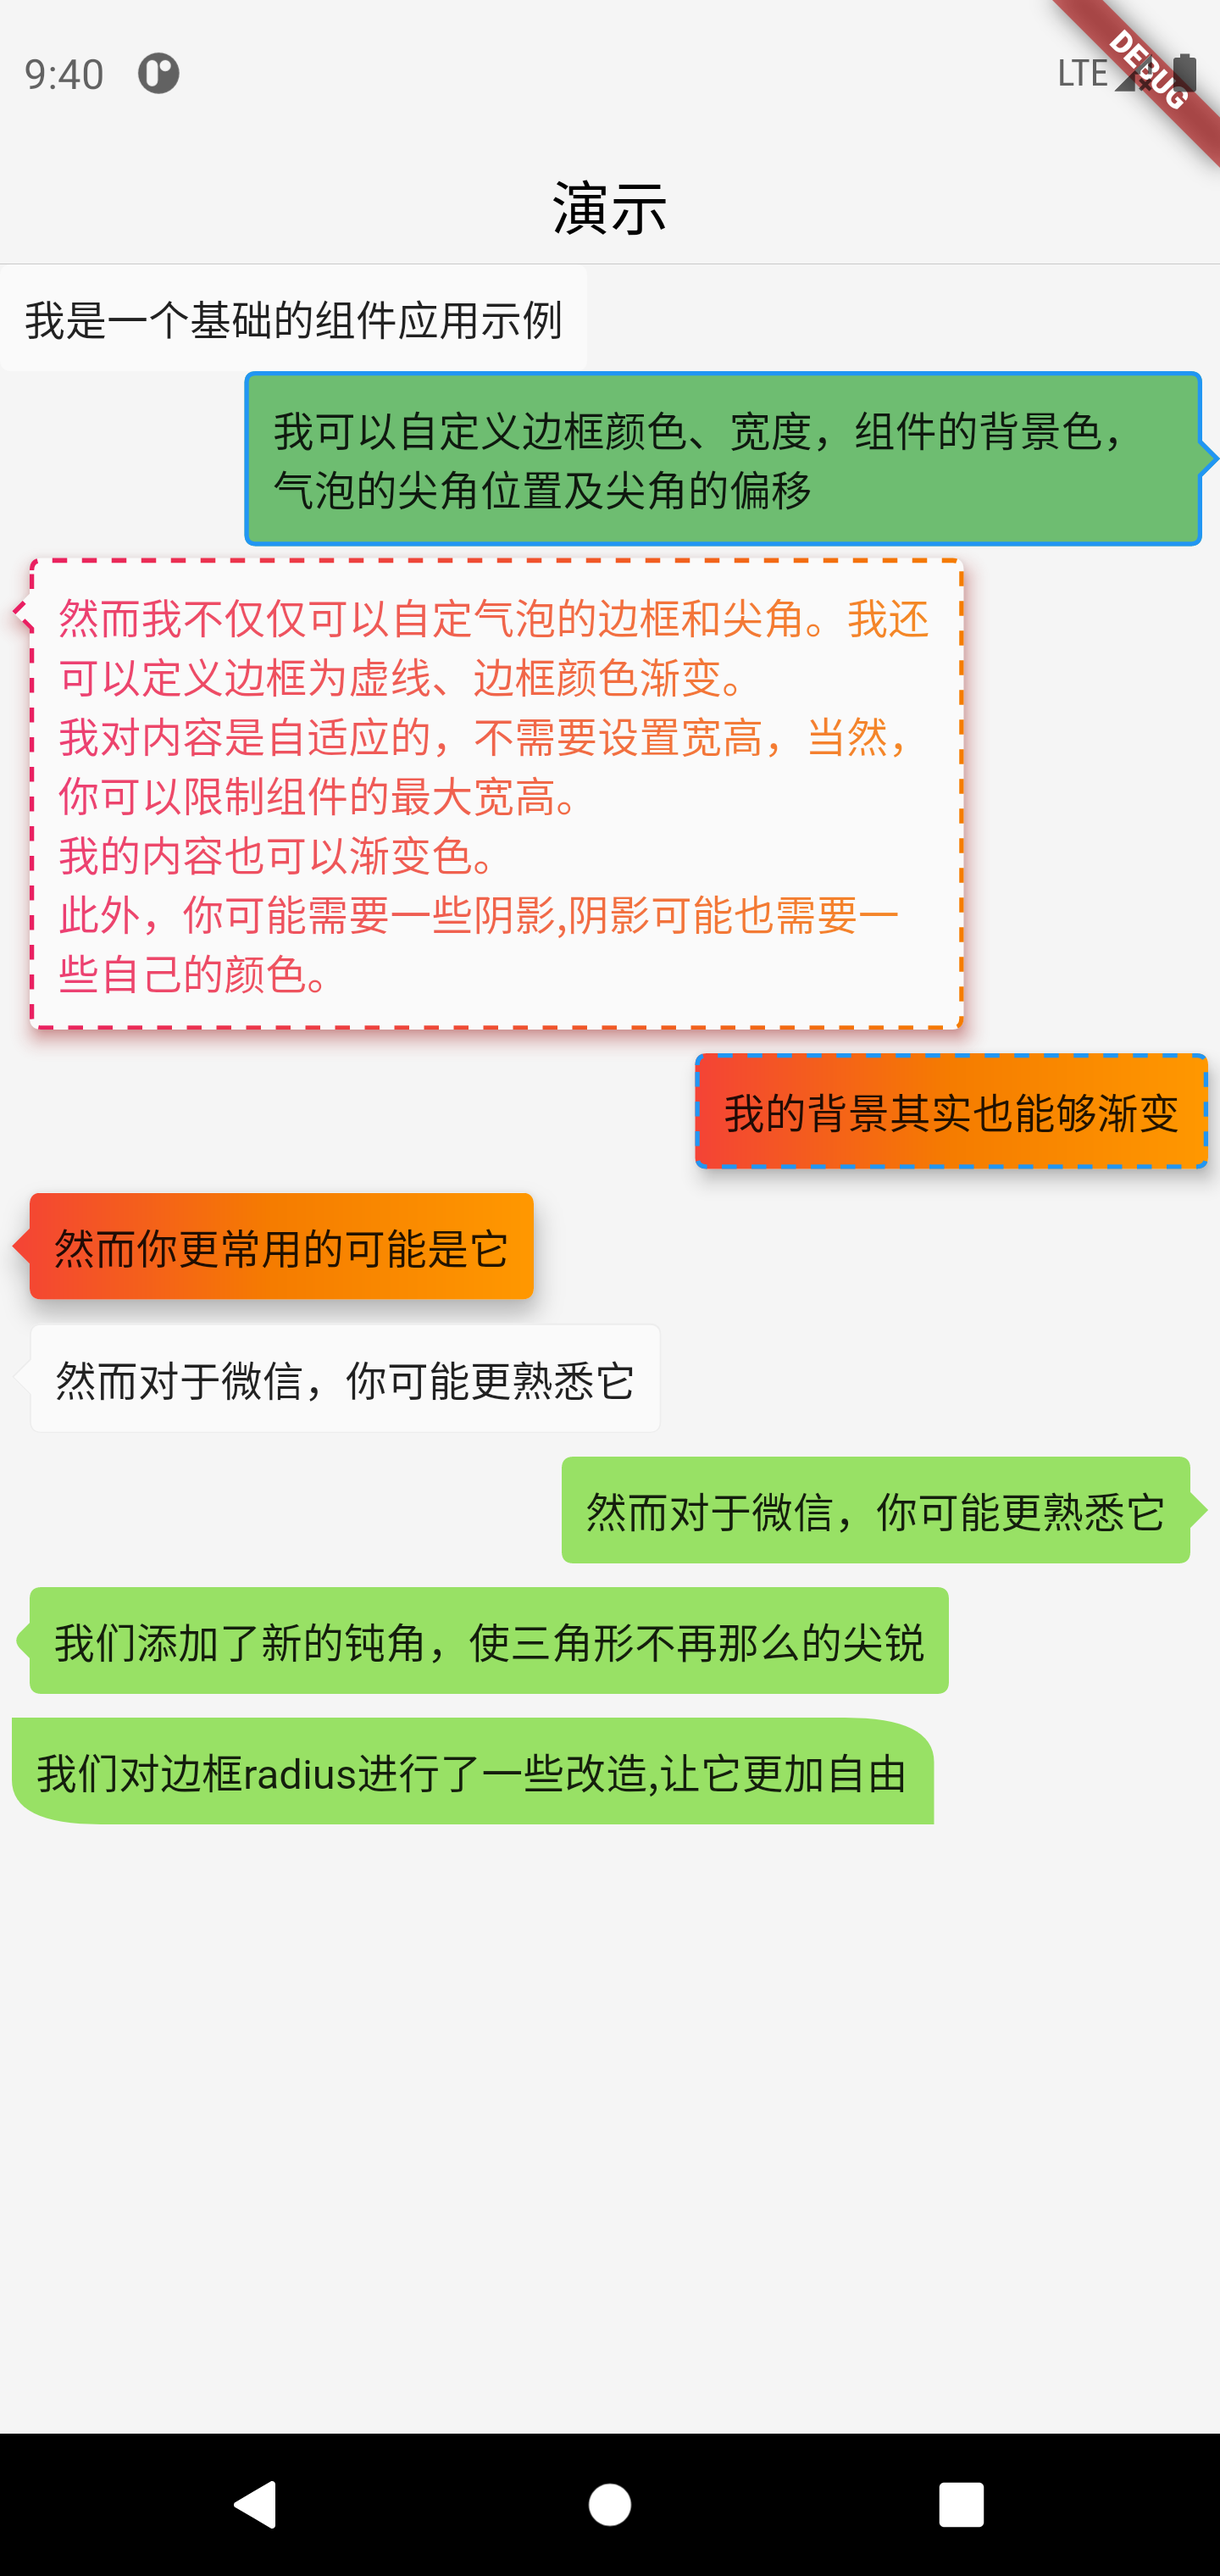
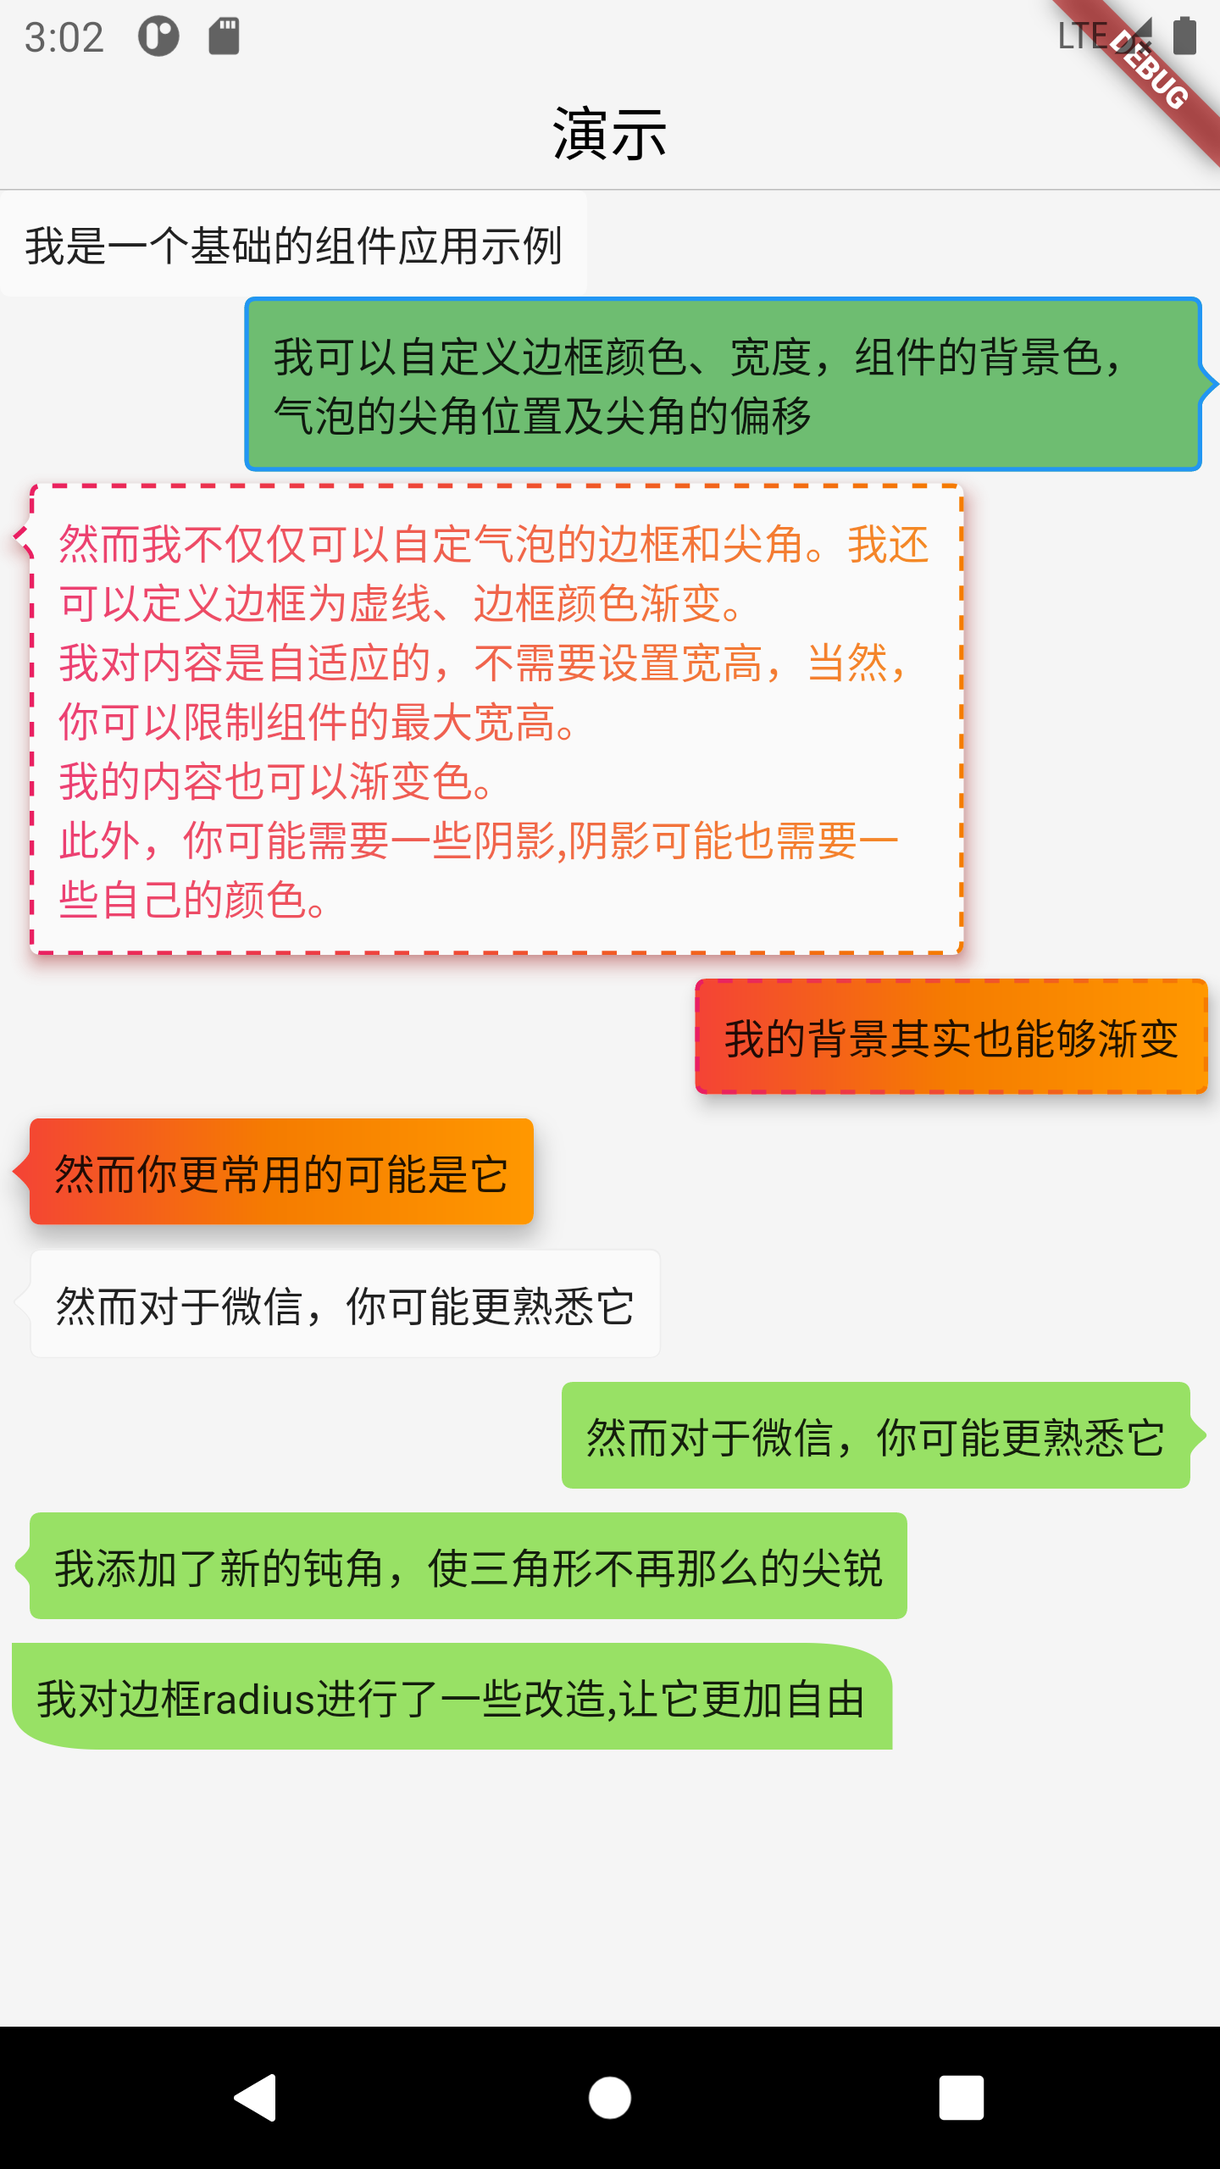
更新截图，格式化代码

diff --git a/lib/src/shape/bubble_shape_border.dart b/lib/src/shape/bubble_shape_border.dart
@@ -187,7 +187,10 @@ class BubbleShapeBorder extends ShapeBorder {
   @override
   Path getOuterPath(Rect rect, {TextDirection? textDirection}) {
     // 修正塞贝尔曲线高度
-    var arrowQuadraticBezierLength = this.arrowQuadraticBezierLength > arrowHeight ? arrowHeight : this.arrowQuadraticBezierLength;
+    var arrowQuadraticBezierLength =
+        this.arrowQuadraticBezierLength > arrowHeight
+            ? arrowHeight
+            : this.arrowQuadraticBezierLength;
 
     Size size = Size(rect.width, rect.height);
     var path = Path();
@@ -208,12 +211,16 @@ class BubbleShapeBorder extends ShapeBorder {
     /// 左上角半径
     path.moveTo(
       leftMargin,
-      topMargin + math.min(_min(position.start, radius.topLeft.y, BubbleDirection.left), size.height),
+      topMargin +
+          math.min(_min(position.start, radius.topLeft.y, BubbleDirection.left),
+              size.height),
     );
     path.quadraticBezierTo(
       leftMargin,
       topMargin,
-      leftMargin + math.min(_min(position.start, radius.topLeft.x, BubbleDirection.top), size.width),
+      leftMargin +
+          math.min(_min(position.start, radius.topLeft.x, BubbleDirection.top),
+              size.width),
       topMargin,
     );
 
@@ -225,25 +232,33 @@ class BubbleShapeBorder extends ShapeBorder {
 
       var x = arrowAngle * arrowQuadraticBezierLength / ah;
 
-      path.quadraticBezierTo(p - arrowAngle + smooth, topMargin, p - x, arrowQuadraticBezierLength);
+      path.quadraticBezierTo(p - arrowAngle + smooth, topMargin, p - x,
+          arrowQuadraticBezierLength);
       // path.lineTo(p - x, arrowQuadraticBezierLength);
 
       path.quadraticBezierTo(p, 0, p + x, arrowQuadraticBezierLength);
 
-      path.quadraticBezierTo(p + arrowAngle - smooth, topMargin, p + arrowAngle + smooth, topMargin);
+      path.quadraticBezierTo(p + arrowAngle - smooth, topMargin,
+          p + arrowAngle + smooth, topMargin);
       // path.lineTo(p + arrowAngle, topMargin);
     }
 
     /// 右上角半径
     path.lineTo(
-      size.width - rightMargin - math.min(_min(position.end, radius.topRight.x, BubbleDirection.top), size.width),
+      size.width -
+          rightMargin -
+          math.min(_min(position.end, radius.topRight.x, BubbleDirection.top),
+              size.width),
       topMargin,
     );
     path.quadraticBezierTo(
       size.width - rightMargin,
       topMargin,
       size.width - rightMargin,
-      topMargin + math.min(_min(position.start, radius.topRight.y, BubbleDirection.right), size.height),
+      topMargin +
+          math.min(
+              _min(position.start, radius.topRight.y, BubbleDirection.right),
+              size.height),
     );
 
     /// 右尖角
@@ -254,52 +269,82 @@ class BubbleShapeBorder extends ShapeBorder {
 
       var x = ah * arrowQuadraticBezierLength / arrowAngle;
 
-      path.quadraticBezierTo(size.width - rightMargin, p - arrowAngle + smooth, size.width - arrowQuadraticBezierLength, p - x);
+      path.quadraticBezierTo(size.width - rightMargin, p - arrowAngle + smooth,
+          size.width - arrowQuadraticBezierLength, p - x);
       // path.lineTo(size.width - arrowQuadraticBezierLength, p - x);
 
-      path.quadraticBezierTo(size.width, p, size.width - arrowQuadraticBezierLength, p + x);
+      path.quadraticBezierTo(
+          size.width, p, size.width - arrowQuadraticBezierLength, p + x);
 
-      path.quadraticBezierTo(size.width - rightMargin, p + arrowAngle - smooth, size.width - rightMargin, p + arrowAngle + smooth);
+      path.quadraticBezierTo(size.width - rightMargin, p + arrowAngle - smooth,
+          size.width - rightMargin, p + arrowAngle + smooth);
       // path.lineTo(size.width - rightMargin, p + arrowAngle);
     }
 
     /// 右下角半径
     path.lineTo(
       size.width - rightMargin,
-      size.height - bottomMargin - math.min(_min(position.end, radius.bottomRight.y, BubbleDirection.right), size.height),
+      size.height -
+          bottomMargin -
+          math.min(
+              _min(position.end, radius.bottomRight.y, BubbleDirection.right),
+              size.height),
     );
     path.quadraticBezierTo(
         size.width - rightMargin,
         size.height - bottomMargin,
-        size.width - rightMargin - math.min(_min(position.end, radius.bottomRight.x, BubbleDirection.bottom), size.width),
+        size.width -
+            rightMargin -
+            math.min(
+                _min(
+                    position.end, radius.bottomRight.x, BubbleDirection.bottom),
+                size.width),
         size.height - bottomMargin);
 
     /// 下尖角
     if (direction == BubbleDirection.bottom) {
       double p = _getTopBottomPosition(size);
 
-      path.lineTo(p + arrowAngle - rightMargin + smooth, size.height - bottomMargin);
+      path.lineTo(
+          p + arrowAngle - rightMargin + smooth, size.height - bottomMargin);
 
       var x = arrowAngle * arrowQuadraticBezierLength / ah;
 
       // path.lineTo(p + x - rightMargin, size.height - arrowQuadraticBezierLength);
       path.quadraticBezierTo(
-          p + arrowAngle - rightMargin - smooth, size.height - bottomMargin, p + x - rightMargin, size.height - arrowQuadraticBezierLength);
+          p + arrowAngle - rightMargin - smooth,
+          size.height - bottomMargin,
+          p + x - rightMargin,
+          size.height - arrowQuadraticBezierLength);
 
-      path.quadraticBezierTo(p - rightMargin, size.height, p - rightMargin - x, size.height - arrowQuadraticBezierLength);
+      path.quadraticBezierTo(p - rightMargin, size.height, p - rightMargin - x,
+          size.height - arrowQuadraticBezierLength);
 
       // path.lineTo(p - arrowAngle - rightMargin, size.height - bottomMargin);
       path.quadraticBezierTo(
-          p - arrowAngle - rightMargin + smooth, size.height - bottomMargin, p - arrowAngle - rightMargin - smooth, size.height - bottomMargin);
+          p - arrowAngle - rightMargin + smooth,
+          size.height - bottomMargin,
+          p - arrowAngle - rightMargin - smooth,
+          size.height - bottomMargin);
     }
 
     /// 左下角半径
-    path.lineTo(leftMargin + math.min(_min(position.start, radius.bottomLeft.x, BubbleDirection.bottom), size.width), size.height - bottomMargin);
+    path.lineTo(
+        leftMargin +
+            math.min(
+                _min(position.start, radius.bottomLeft.x,
+                    BubbleDirection.bottom),
+                size.width),
+        size.height - bottomMargin);
     path.quadraticBezierTo(
       leftMargin,
       size.height - bottomMargin,
       leftMargin,
-      size.height - bottomMargin - math.min(_min(position.end, radius.bottomLeft.y, BubbleDirection.left), size.height),
+      size.height -
+          bottomMargin -
+          math.min(
+              _min(position.end, radius.bottomLeft.y, BubbleDirection.left),
+              size.height),
     );
 
     /// 左尖角
@@ -308,17 +353,24 @@ class BubbleShapeBorder extends ShapeBorder {
       path.lineTo(leftMargin, p + arrowAngle + smooth);
       var x = ah * arrowQuadraticBezierLength / arrowAngle;
 
-      path.quadraticBezierTo(leftMargin, p + arrowAngle - smooth, arrowQuadraticBezierLength, p + x);
+      path.quadraticBezierTo(leftMargin, p + arrowAngle - smooth,
+          arrowQuadraticBezierLength, p + x);
       // path.lineTo(arrowQuadraticBezierLength, p + x);
 
       path.quadraticBezierTo(0, p, arrowQuadraticBezierLength, p - x);
 
       // path.lineTo(leftMargin, p - arrowAngle);
-      path.quadraticBezierTo(leftMargin, p - arrowAngle + smooth, leftMargin, p - arrowAngle - smooth);
+      path.quadraticBezierTo(leftMargin, p - arrowAngle + smooth, leftMargin,
+          p - arrowAngle - smooth);
     }
 
     /// 收尾
-    path.lineTo(leftMargin, topMargin + math.min(_min(position.start, radius.topRight.y, BubbleDirection.left), size.height));
+    path.lineTo(
+        leftMargin,
+        topMargin +
+            math.min(
+                _min(position.start, radius.topRight.y, BubbleDirection.left),
+                size.height));
     path.close();
     return path;
   }
@@ -419,7 +471,8 @@ class BubbleShapeBorder extends ShapeBorder {
       direction: direction ?? this.direction,
       arrowHeight: arrowHeight ?? this.arrowHeight,
       arrowAngle: arrowAngle ?? this.arrowAngle,
-      arrowQuadraticBezierLength: arrowQuadraticBezierLength ?? this.arrowQuadraticBezierLength,
+      arrowQuadraticBezierLength:
+          arrowQuadraticBezierLength ?? this.arrowQuadraticBezierLength,
       position: position ?? this.position,
       border: border ?? this.border,
       radius: radius ?? this.radius,

diff --git a/example/lib/main.dart b/example/lib/main.dart
@@ -105,7 +105,8 @@ class Demo extends StatelessWidget {
               margin: EdgeInsets.all(4),
               elevation: 5,
               shadowColor: Colors.redAccent,
-              child: Text('然而我不仅仅可以自定气泡的边框和尖角。我还可以定义边框为虚线、边框颜色渐变。\n我对内容是自适应的，不需要设置宽高，当然，你可以限制组件的最大宽高。\n我的内容也可以渐变色。\n此外，你可能需要一些阴影,阴影可能也需要一些自己的颜色。'),
+              child: Text(
+                  '然而我不仅仅可以自定气泡的边框和尖角。我还可以定义边框为虚线、边框颜色渐变。\n我对内容是自适应的，不需要设置宽高，当然，你可以限制组件的最大宽高。\n我的内容也可以渐变色。\n此外，你可能需要一些阴影,阴影可能也需要一些自己的颜色。'),
             ),
           ],
         ),
@@ -173,6 +174,7 @@ class Demo extends StatelessWidget {
                 border: BubbleBoxBorder(color: Color(0xffEDEDED)),
                 direction: BubbleDirection.left,
                 position: const BubblePosition.start(12),
+                arrowQuadraticBezierLength: 1,
               ),
               margin: EdgeInsets.all(4),
               child: Text(
@@ -189,6 +191,7 @@ class Demo extends StatelessWidget {
               shape: BubbleShapeBorder(
                 direction: BubbleDirection.right,
                 position: const BubblePosition.start(12),
+                arrowQuadraticBezierLength: 1,
               ),
               margin: EdgeInsets.all(4),
               backgroundColor: Color(0xff98E165),
@@ -223,7 +226,9 @@ class Demo extends StatelessWidget {
               backgroundColor: Color(0xff98E165),
               margin: EdgeInsets.all(4),
               shape: BubbleShapeBorder(
-                radius: BorderRadius.only(topRight: Radius.elliptical(30, 15), bottomLeft: Radius.elliptical(30, 15)),
+                radius: BorderRadius.only(
+                    topRight: Radius.elliptical(30, 15),
+                    bottomLeft: Radius.elliptical(30, 15)),
               ),
               child: Text(
                 '我对边框radius进行了一些改造,让它更加自由',
